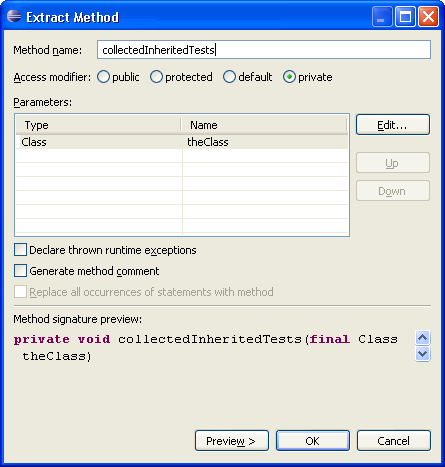
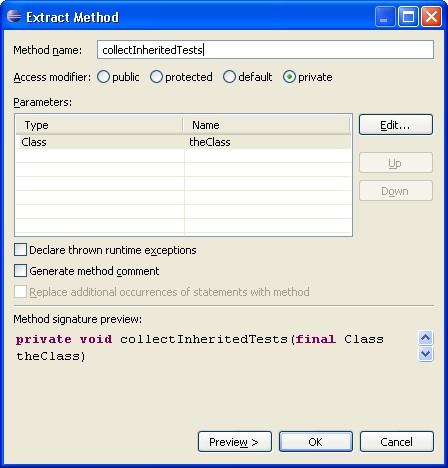
Fixed bug 347565: extract_method_dialog.png content inconsistent with other sections in gettingStarted

diff --git a/bundles/org.eclipse.jdt.doc.user/gettingStarted/qs-ExtractMethod.htm b/bundles/org.eclipse.jdt.doc.user/gettingStarted/qs-ExtractMethod.htm
@@ -1,7 +1,7 @@
 <!DOCTYPE HTML PUBLIC "-//W3C//DTD HTML 4.01//EN">
 <html lang="en">
   <head>
-<meta name="copyright" content="Copyright (c) IBM Corporation and others 2000, 2007. This page is made available under license. For full details see the LEGAL in the documentation book that contains this page." >
+<meta name="copyright" content="Copyright (c) IBM Corporation and others 2000, 2011. This page is made available under license. For full details see the LEGAL in the documentation book that contains this page." >
     <link rel="stylesheet" href="../book.css" charset="ISO-8859-1" type="text/css">
     <meta http-equiv="Content-Type" content="text/html; charset=ISO-8859-1">
     <meta http-equiv="Content-Style-Type" content="text/css">
@@ -16,7 +16,7 @@
     <p>
       In this section, you will improve the code of the constructor of <em>junit.framework.TestSuite</em>. 
       To make the intent of the code clearer, you will extract the code that collects test cases 
-      from base classes into a new method called <em>collectTestMethods</em>.
+      from base classes into a new method called <em>collectInheritedTests</em>.
     </p>
     <ol>
       <li>
